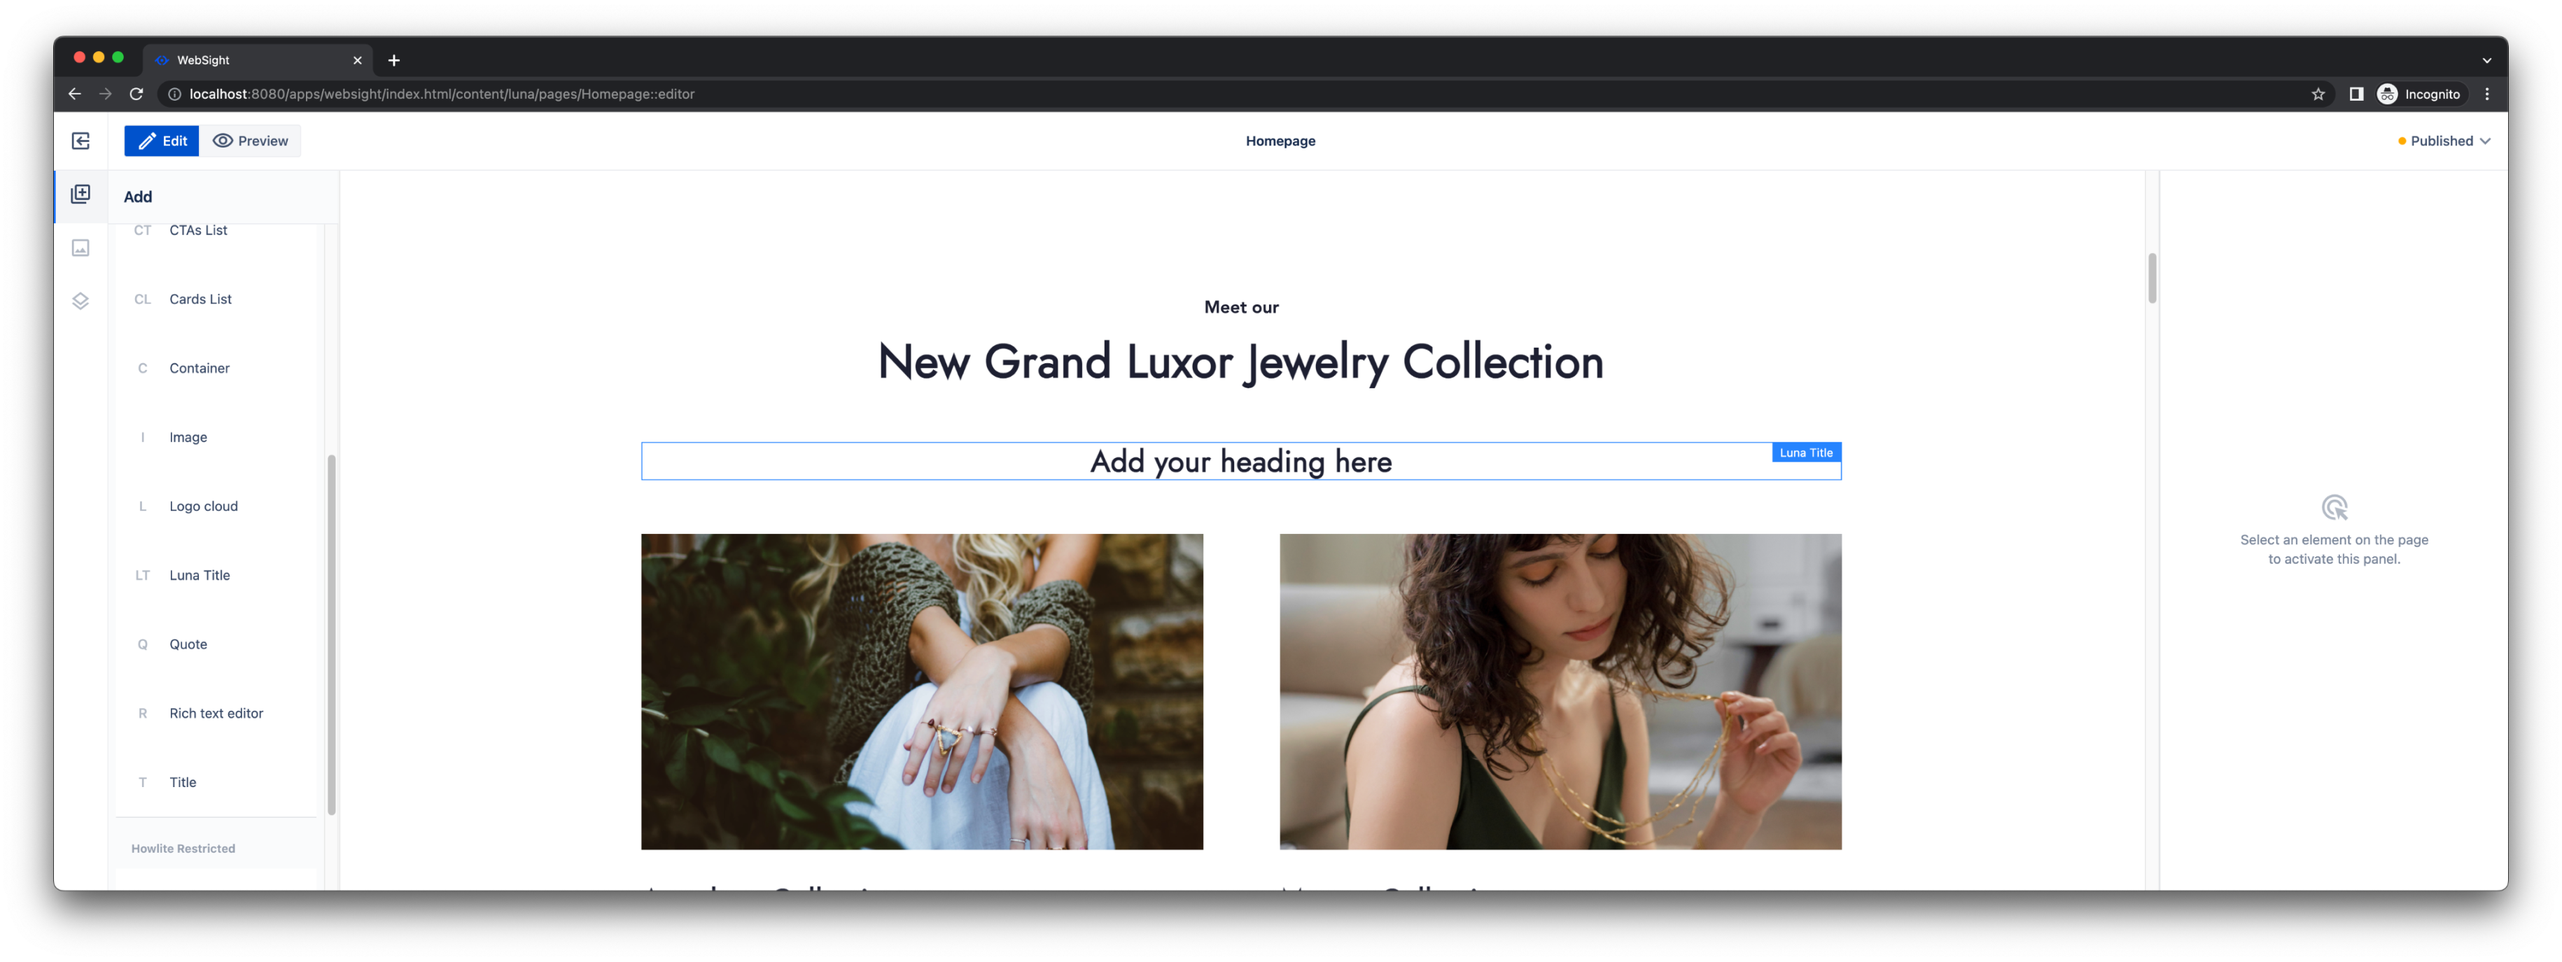
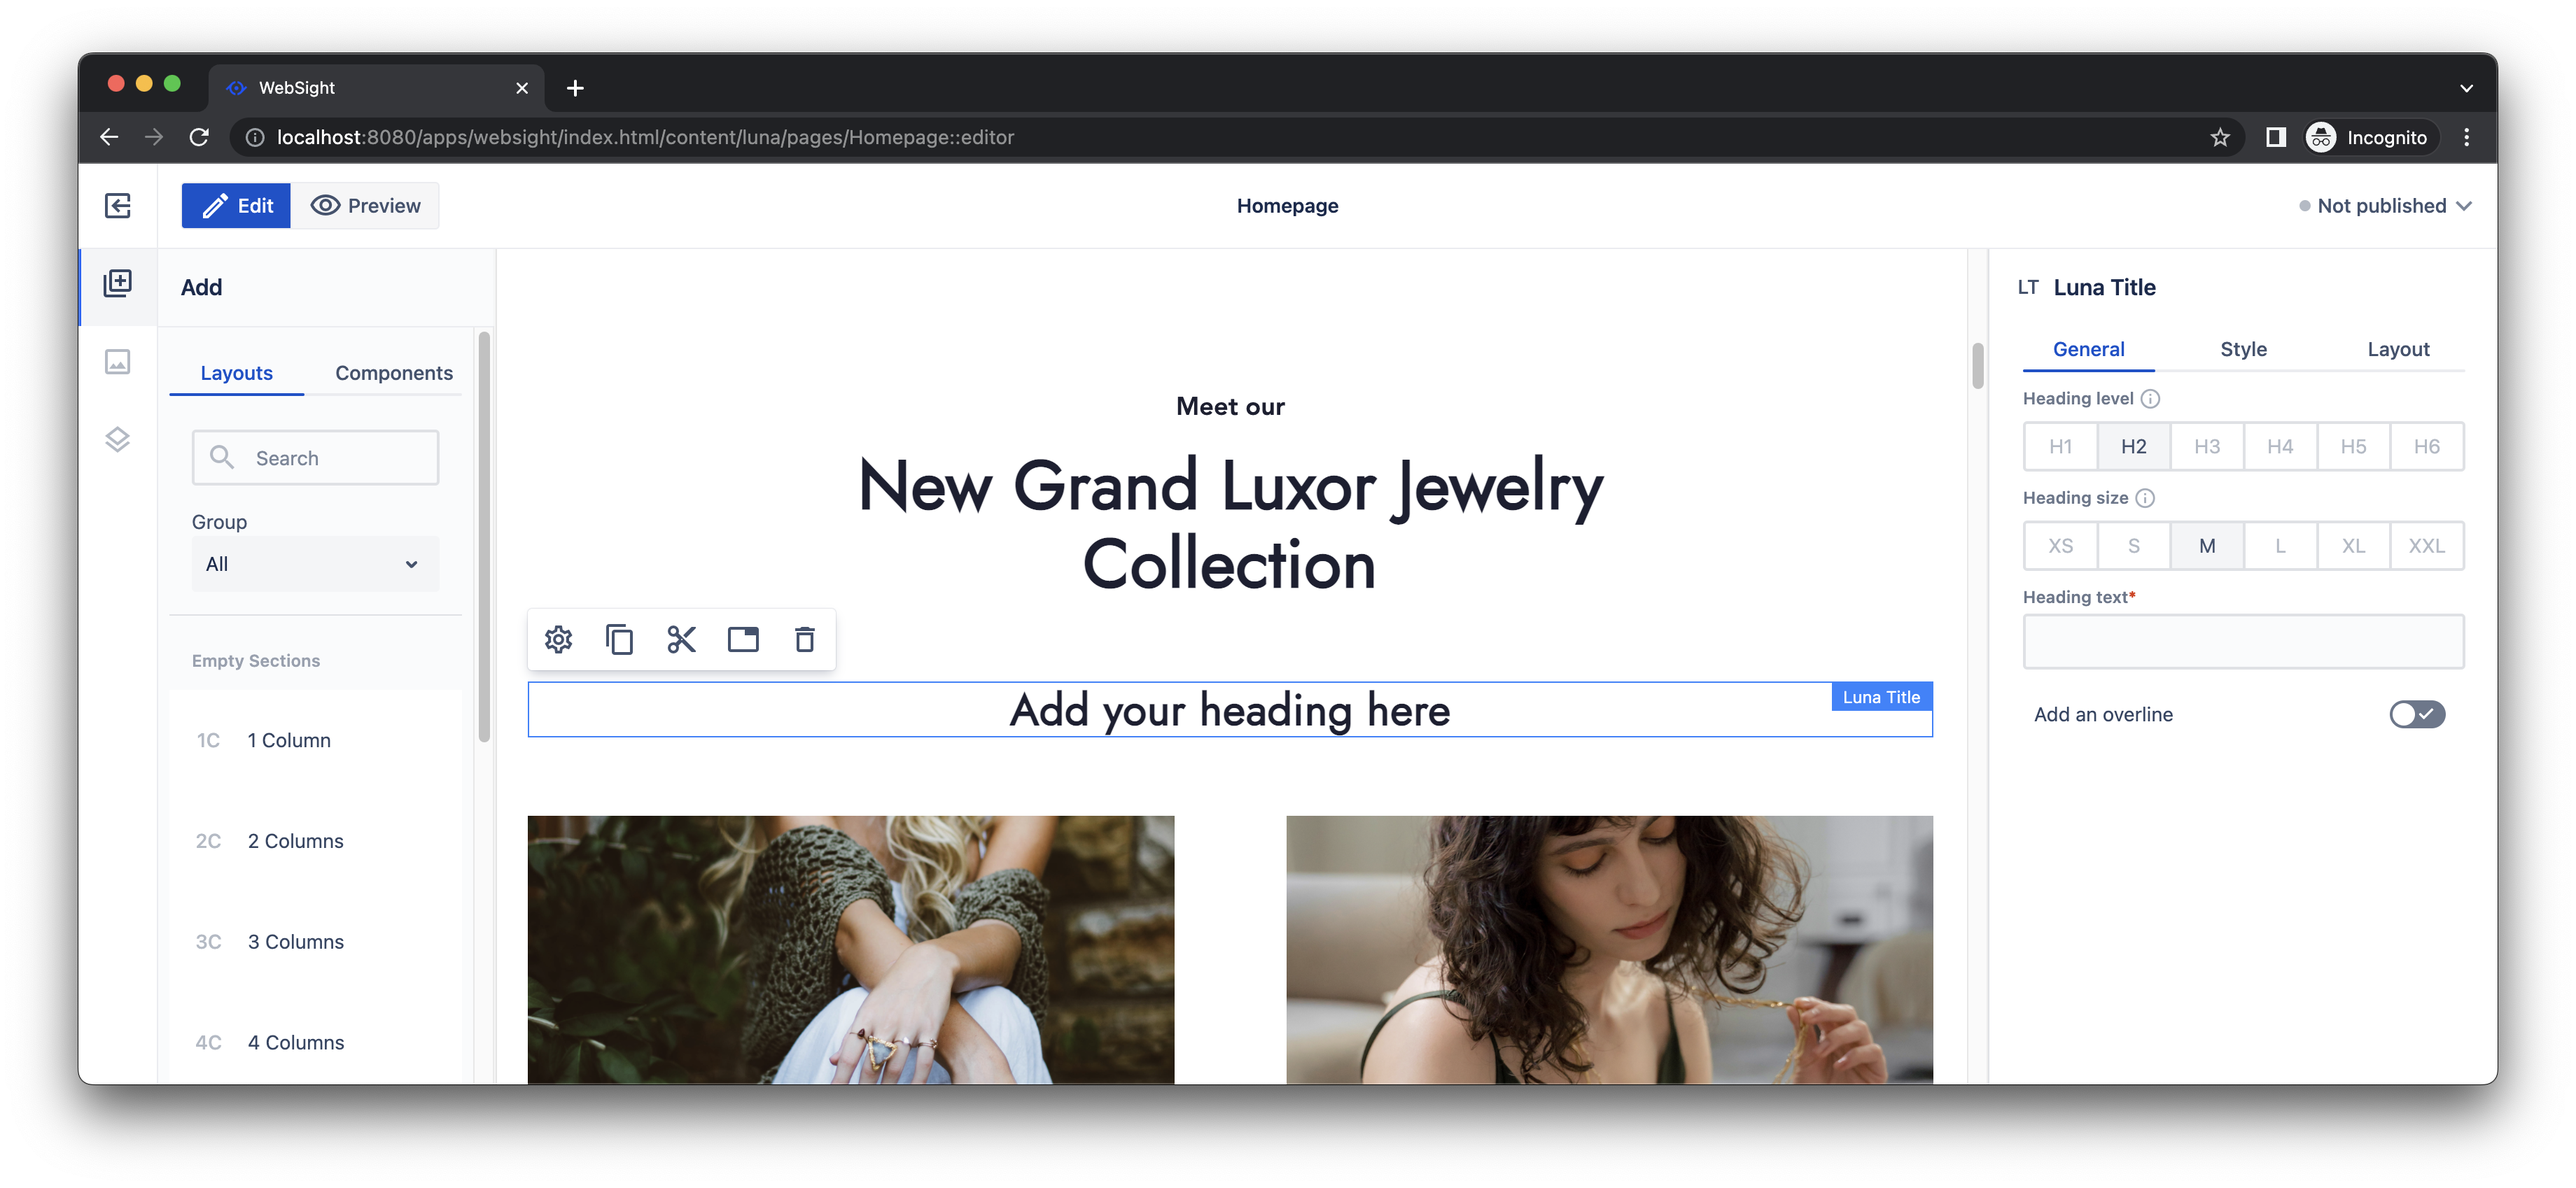
Update dev docs with side panel related screenshots

diff --git a/docs/docs/developers/quick-start/index.md b/docs/docs/developers/quick-start/index.md
@@ -55,9 +55,9 @@ To fulfill this request, you are asked to keep the collection name on one line a
 
 To do this, you need to extend the _Title_ component included in the [Howlite](https://github.com/websight-io/howlite) library. Before doing that, let's check the orginal component first to identify the scope of changes.
 
-Run WebSight, open the _Luna_ space and edit the home page. Find the _Title_ component that contains the text `Meet our New Grand Luxor Jewelry Collection` and edit its properties.
+Run WebSight, open the _Luna_ space and edit the home page. Find the _Title_ component that contains the text `Meet our New Grand Luxor Jewelry Collection` and edit its properties on the sidepanel.
 
-![Title dialog properties](title-dialog-properties.png)
+![Title panel properties](title-panel-properties.png)
 
 Enable the `Overline text` option, move `Meet our` from `Heading text` to `Overline text` and submit changes.
 
@@ -291,7 +291,7 @@ Then, find the _Luna Title_ in the component tree on the left. Drag and drop the
 ![Luna Title added](luna-title-component.png)
 
 
-Edit properties of the _Luna Title_:
+Edit properties of the _Luna Title_ on the side panel:
 
 1. set _Heading size_ to `XL`
 1. set _Heading text_ to `New Grand Luxor Jewelry Collection`
@@ -299,9 +299,9 @@ Edit properties of the _Luna Title_:
 1. set _Overline size_ to `L`
 1. set _Overline text_ to `Meet our` 
 
-![Luna Title Dialog Properites](luna-title-dialog-properties.png)
+![Luna Title Panel Properites](luna-title-panel-properties.png)
 
-Submit changes. The title should appear as expected now. You can delete the original _Title_ component to finalize the change.
+The title should appear as expected now. You can delete the original _Title_ component to finalize the change.
 
 ![Updated Luna Title](luna-title-updated.png)
 
